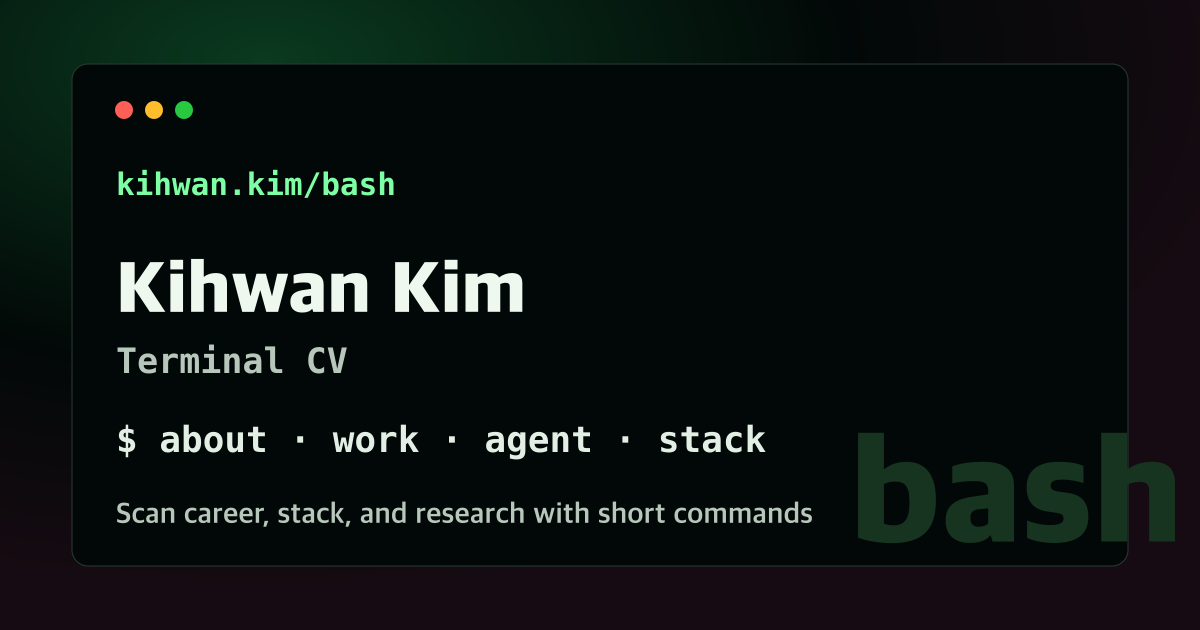
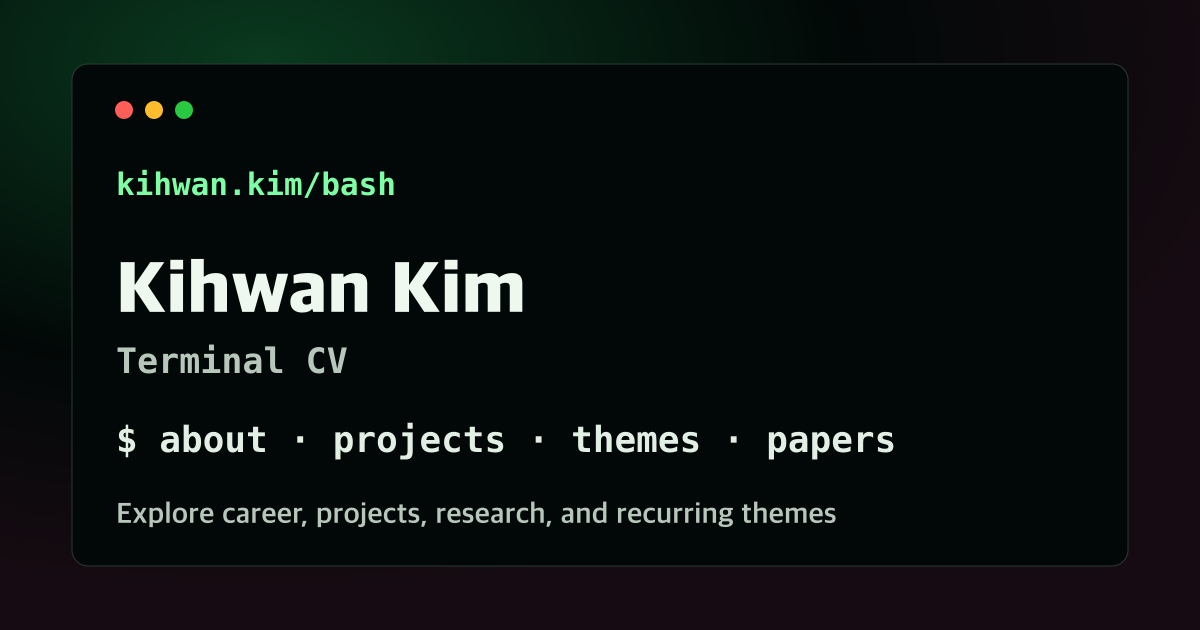
Polish CV narrative metadata

Changed region(s): [[0.0925, 0.6635, 0.9867, 0.8746]]

diff --git a/index.html b/index.html
@@ -3,10 +3,18 @@
   <head>
     <meta charset="UTF-8" />
     <link rel="icon" type="image/svg+xml" href="/favicon.svg" />
-    <link rel="stylesheet" as="style" crossorigin href="https://cdn.jsdelivr.net/gh/orioncactus/pretendard@v1.3.9/dist/web/static/pretendard-dynamic-subset.min.css" />
+    <link
+      rel="stylesheet"
+      as="style"
+      crossorigin
+      href="https://cdn.jsdelivr.net/gh/orioncactus/pretendard@v1.3.9/dist/web/static/pretendard-dynamic-subset.min.css"
+    />
     <meta name="viewport" content="width=device-width, initial-scale=1.0" />
     <title>김기환 | CV</title>
-    <meta name="description" content="김기환의 경력과 프로젝트, 연구 이력을 한곳에 정리한 CV입니다." />
+    <meta
+      name="description"
+      content="복잡한 시스템을 더 쉽게 이해하고 실행할 수 있게 만드는 프론트엔드 엔지니어 김기환의 CV입니다."
+    />
   </head>
   <body>
     <div id="root"></div>

diff --git a/src/components/BashResume/BashResume.tsx b/src/components/BashResume/BashResume.tsx
@@ -522,11 +522,7 @@ const getCommandOutput = (
     case 'themes':
       return getThemesOutput(resume);
     case 'agent':
-      return getProjectText(resume, language, (project) =>
-        /agent|generative|pageagent|자동화|browser|ui/i.test(
-          `${project.title} ${project.summary ?? ''}`
-        )
-      );
+      return getProjectText(resume, language, () => true);
     case 'stack': {
       const stack = Array.from(
         new Set(resume.experience.flatMap((item) => item.stack ?? []))
